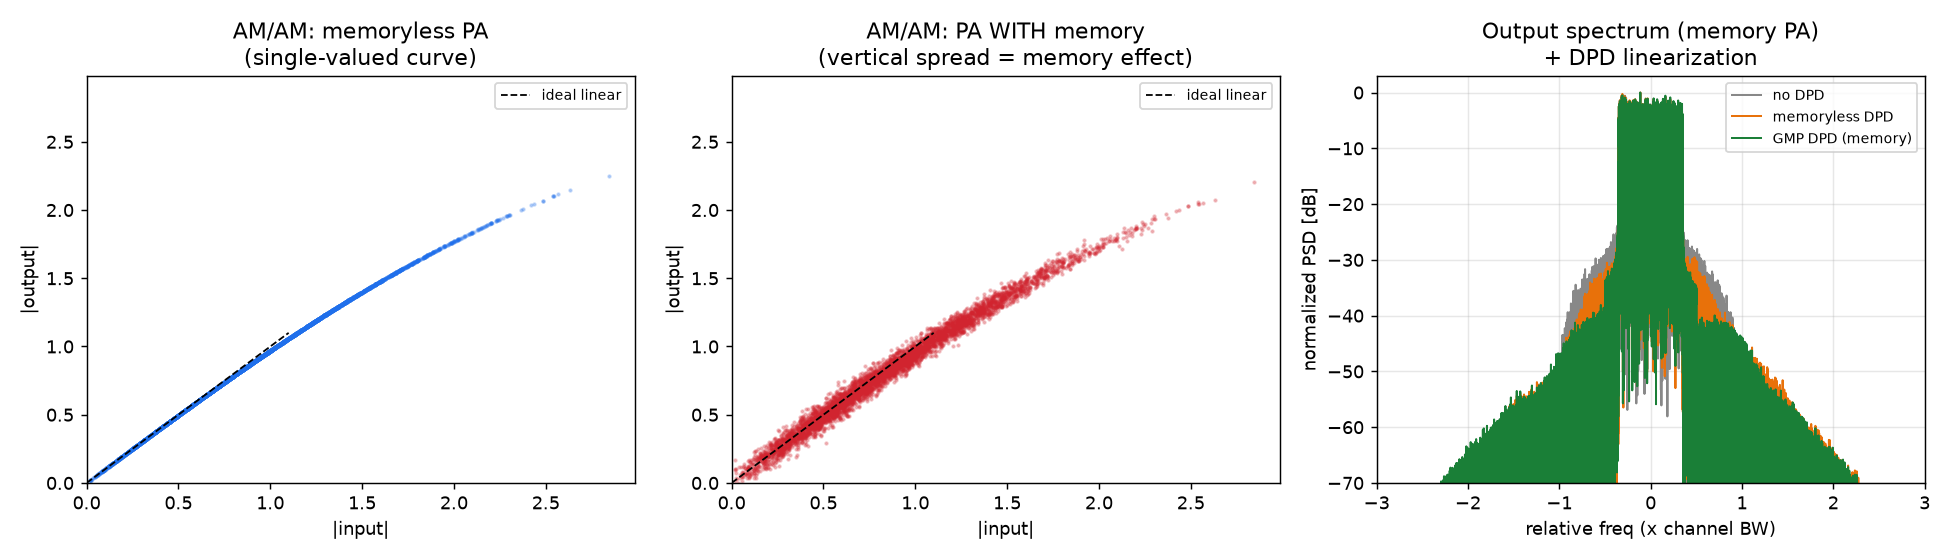
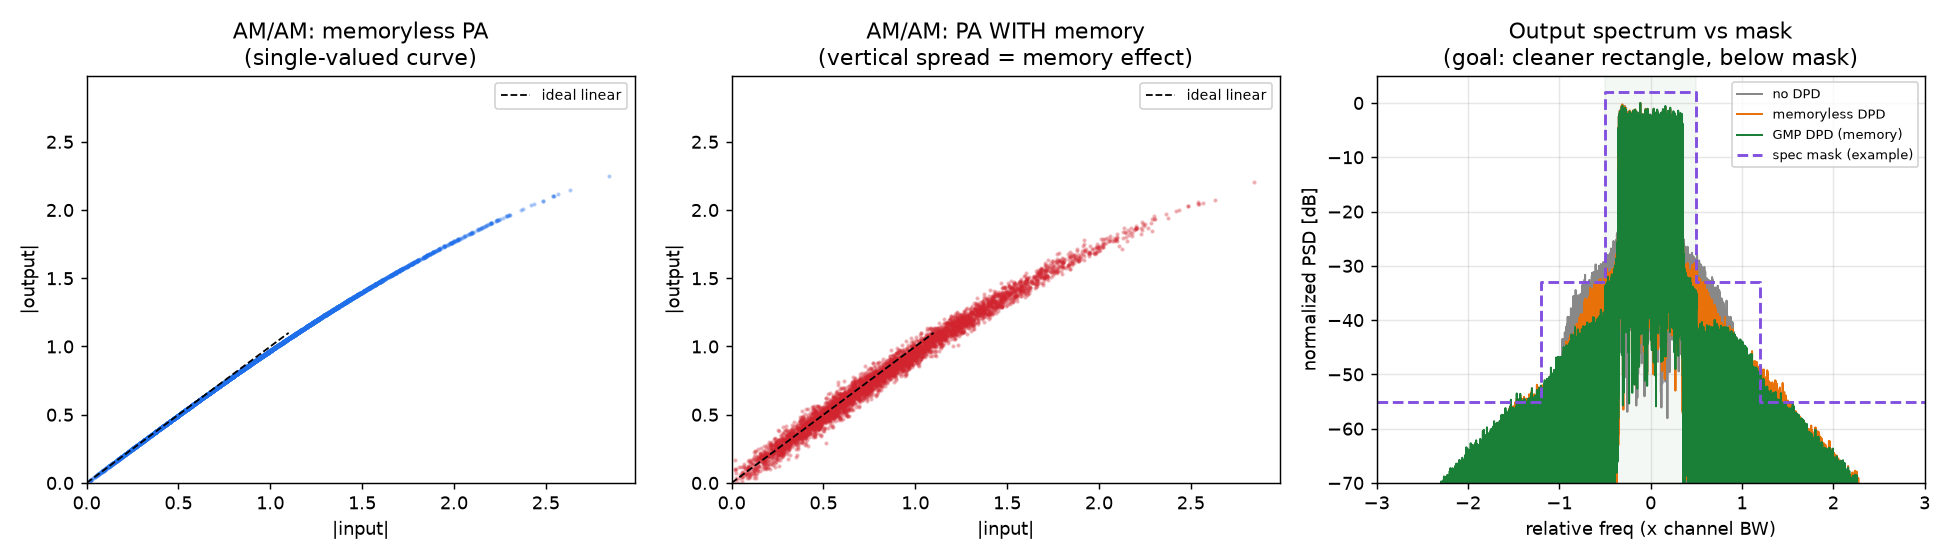
sim/docs: スペクトルを規格マスクより綺麗な長方形にする(マスク重畳+設計ノート)
- sim: スペクトル図に規格マスク(例)を重畳。GMP DPD後はマスク内側に深く収まり、
  帯域内フラットな矩形になることを可視化。
- レポート§6.4b新設: 綺麗な長方形スペクトルの作り方(送信パルス整形フィルタで
  矩形の形、DPD+バックオフで肩を規格より深く、帯域内フラットネス等化、PAPR
  /クリップ管理)。狭帯域(音声)は矩形化に有利。過度な急峻化はPAPR増の注意。

Claude-Session: https://claude.ai/code/session_01JMFErp3zmr5vsasCsD5dKh

diff --git a/sim/dpd_memory_sim.py b/sim/dpd_memory_sim.py
@@ -352,11 +352,17 @@ def _make_figures(x, pa, pa_nomem, y0, y1, y2, g, osr):
                      (y2, "GMP DPD (memory)", "#1a7f37")]:
         f, p = psd_db(s)
         ax[2].plot(f, p, label=lb, lw=1.1, color=c)
-    ax[2].set_xlim(-3, 3); ax[2].set_ylim(-70, 3)
+    # 規格スペクトルマスク(例)を重ねる: 目標は「マスクより下=綺麗な長方形」
+    edge = 0.5                                   # チャネル端(±0.5 x BW)
+    mf = [-3, -1.2, -1.2, -edge, -edge, edge, edge, 1.2, 1.2, 3]
+    mm = [-55, -55, -33, -33, 2, 2, -33, -33, -55, -55]
+    ax[2].plot(mf, mm, color="#8250df", lw=1.6, ls="--", label="spec mask (example)")
+    ax[2].axvspan(-edge, edge, color="#1a7f37", alpha=0.05)
+    ax[2].set_xlim(-3, 3); ax[2].set_ylim(-70, 5)
     ax[2].set_xlabel("relative freq (x channel BW)")
     ax[2].set_ylabel("normalized PSD [dB]")
-    ax[2].set_title("Output spectrum (memory PA)\n+ DPD linearization")
-    ax[2].legend(fontsize=8); ax[2].grid(alpha=0.3)
+    ax[2].set_title("Output spectrum vs mask\n(goal: cleaner rectangle, below mask)")
+    ax[2].legend(fontsize=7); ax[2].grid(alpha=0.3)
     fig.tight_layout()
     fig.savefig("docs/figures/dpd_memory_result.png", dpi=130)
     print("figure saved: docs/figures/dpd_memory_result.png")

diff --git a/docs/6p5GHz_HEMT_PA_歪み補償_設計調査レポート.md b/docs/6p5GHz_HEMT_PA_歪み補償_設計調査レポート.md
@@ -237,6 +237,20 @@ y[n] = Σ_{m=0}^{M} Σ_{p=1,3,5,…}^{P}  a_{p,m} · x[n-m] · |x[n-m]|^{p-1}
 - **周波数を説明変数に含むモデル**: 周波数依存 Volterra／GMP 等で全域を 1 モデル化（実装は重いが係数管理が簡素）。
 - **ハード側**: バンド全域で利得平坦度・整合（VSWR）・AM/PM を作り込み、DPD の負担を軽減。内部整合デバイスの整合帯域が運用範囲を包含するか要確認（第3章の M 帯上端の件）。
 
+### 6.4b スペクトルを「規格マスクより綺麗な長方形」にする
+目標は、規格の**スペクトルマスクにギリギリ合格**ではなく、**帯域内フラット・端が急峻・帯域外は規格より深い＝矩形（ブリックウォール）に近い**スペクトルにマージンをもって収めること。役割分担:
+
+| 要素 | 役割 |
+|---|---|
+| **送信パルス整形フィルタ**（急峻な RRC/窓付き FIR） | 矩形の“形”を作る（帯域内フラット＋端を急峻に） |
+| **DPD＋バックオフ** | 相互変調による**肩（スペクトル再成長）を抑圧** → ストップバンドを規格より深く |
+| **帯域内フラットネス等化** | 利得リップル平坦化 → 天板を平ら |
+| **PAPR/クリップ管理** | ピーク潰れによる肩の再成長を防止 |
+
+- **狭帯域（音声）なら送信フィルタを急峻にしやすく矩形化に有利**。
+- 付属シミュレーション図（右パネル）に**規格マスク（例）を重畳**。GMP DPD 後はマスク内側に深く収まり、帯域内はフラット＝綺麗な長方形になることを可視化。
+- 注意: 過度に急峻なフィルタは PAPR を上げるので、DPD/バックオフとのバランスで決める。
+
 ### 6.5 期待効果（目安）
 - ACLR 改善: 10〜20 dB（メモリ効果・周波数依存対応の可否で幅）。
 - EVM 改善: 数 % → 1〜3% 程度まで低減可能（動作点・信号帯域による）。
